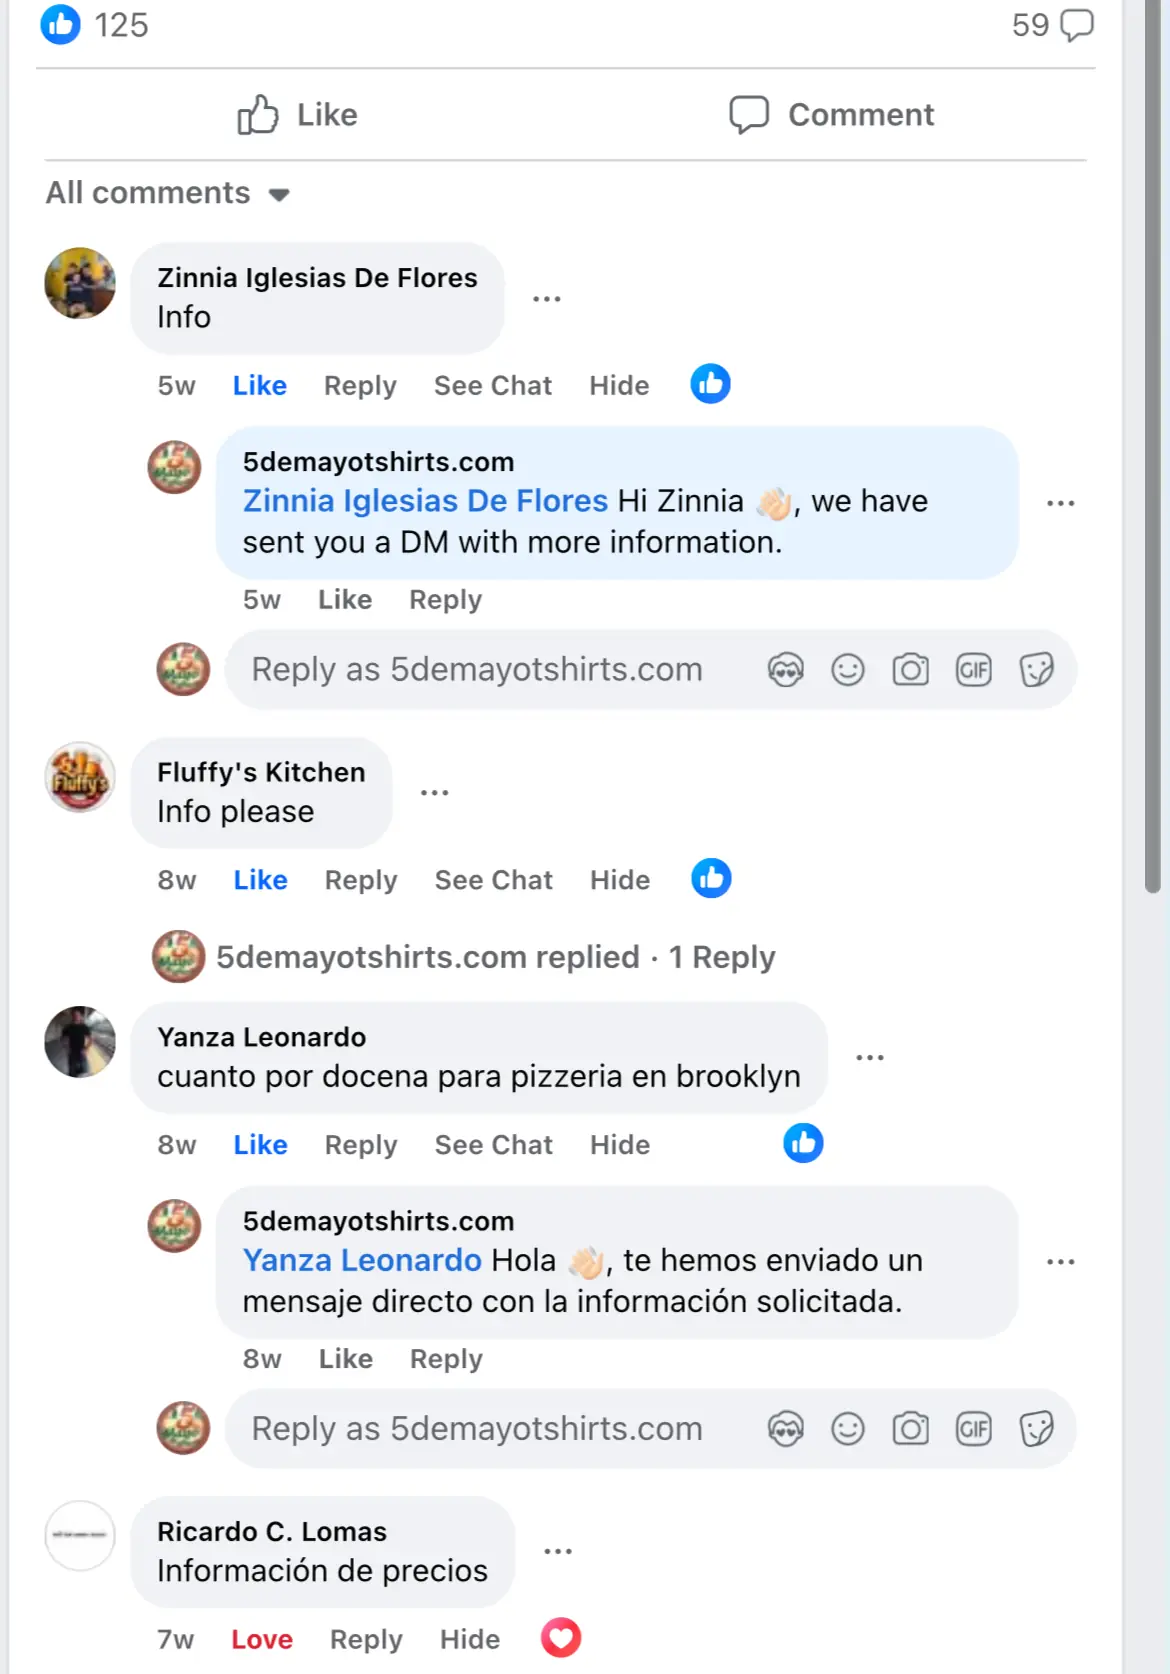
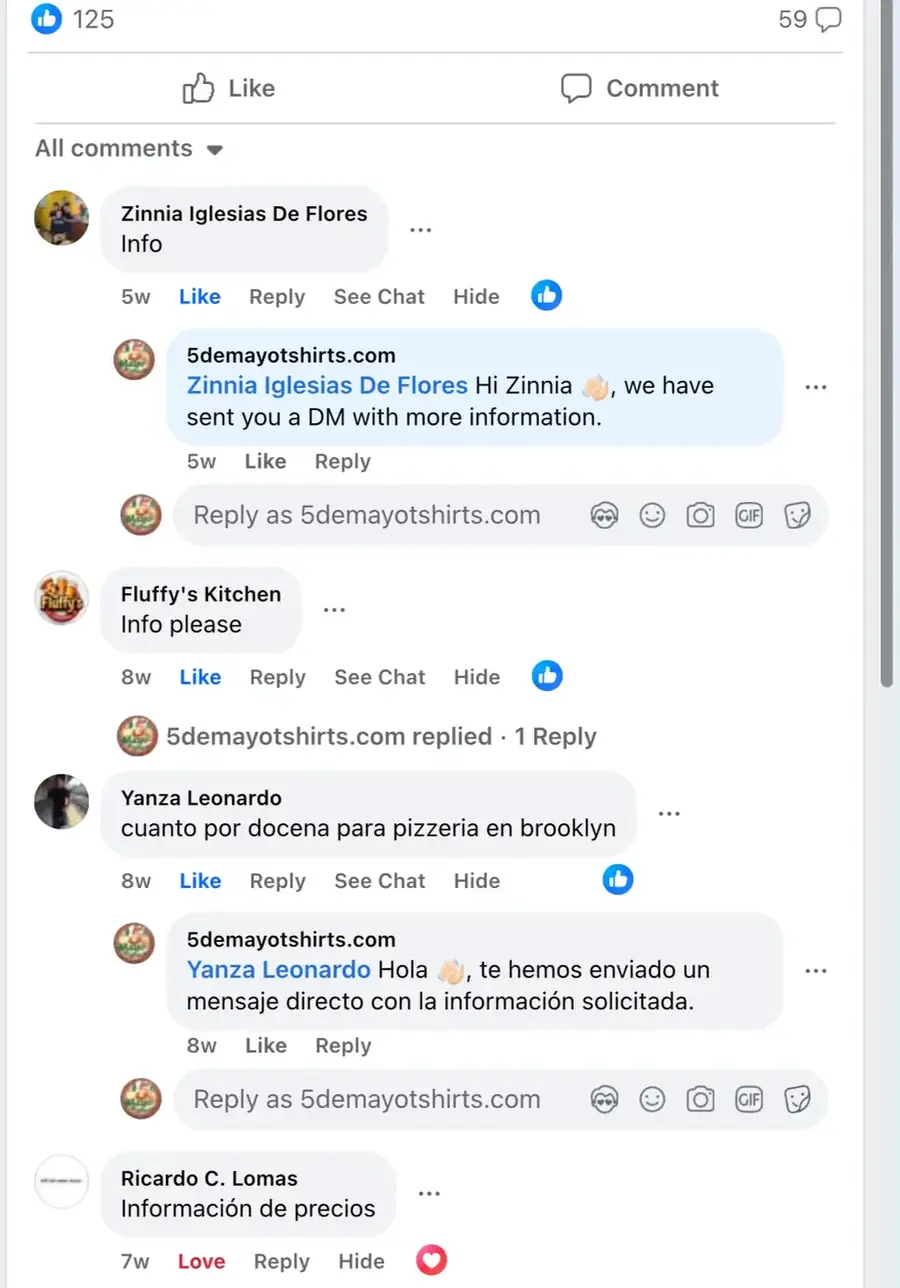
Optimizar imágenes: reducir tamaño y recomprimir
- bogota-mobile.webp: 72.8 → 58.3 KiB (Q40, imagen de fondo con overlay)
- Osvaldo_Enrique_Gonzalez_Guzman.webp: 69.1 → 22.4 KiB (resize 400px, Q75)
- Comentarios_pauta_image_works.webp: 60.4 → 44.9 KiB (resize 900px, Q70)
- Actualizar width/height en HTML con dimensiones reales post-resize

diff --git a/index.html b/index.html
@@ -366,7 +366,7 @@
 
         <!-- Foto a la derecha -->
         <div class="acerca-photo reveal">
-          <img src="assets/images/Osvaldo_Enrique_Gonzalez_Guzman.webp" alt="Osvaldo González, Social Media Manager en Bogotá" width="1456" height="816" loading="lazy" />
+          <img src="assets/images/Osvaldo_Enrique_Gonzalez_Guzman.webp" alt="Osvaldo González, Social Media Manager en Bogotá" width="400" height="600" loading="lazy" />
         </div>
 
       </div>
@@ -796,7 +796,7 @@
                       src="assets/Pauta-Image-Works/Comentarios_pauta_image_works.webp"
                       alt="Comentarios de restauranteros interesados en la campaña Cinco de Mayo de Image Works"
                       loading="lazy"
-                     width="1171" height="1675"/>
+                     width="901" height="1289"/>
                   </div>
                 </div>
               </div>
